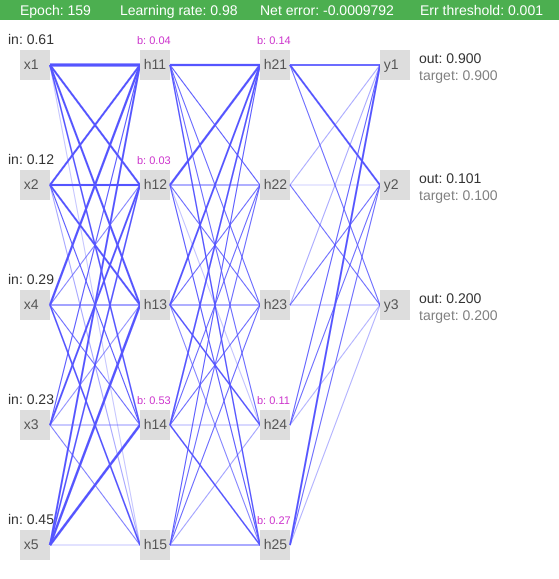
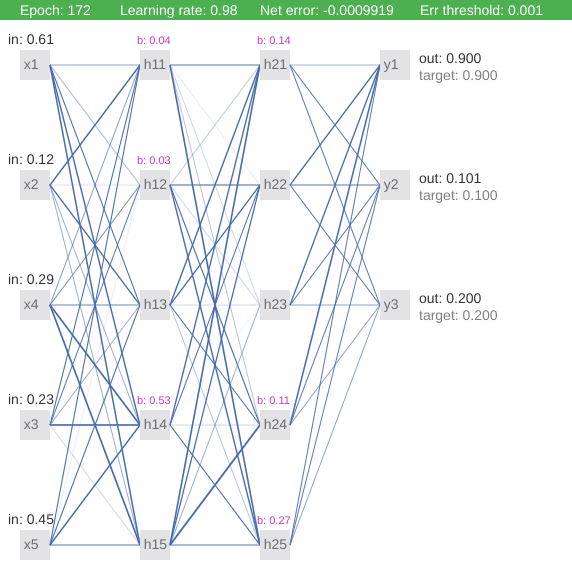
Colors updated

diff --git a/main.js b/main.js
@@ -243,7 +243,7 @@ function drawNet(perceptron) {
                         ctx.moveTo(posX, posY + neuronSize / 2);
                         ctx.lineTo(neuronPositions[neuron.links[k].id][0] + neuronSize, neuronPositions[neuron.links[k].id][1] + neuronSize / 2);
                         ctx.lineWidth = neuron.links[k].weight * 2;
-                        ctx.strokeStyle = '#5555ff';
+                        ctx.strokeStyle = '#496cab';
                         ctx.stroke();
                     } else {
                         rightLinksCount++;
@@ -251,10 +251,10 @@ function drawNet(perceptron) {
                 }
             }
 
-            ctx.fillStyle = "#ddd";
+            ctx.fillStyle = "#e3e2e5";
             ctx.fillRect(posX, posY, neuronSize, neuronSize);
 
-            ctx.fillStyle = "#555";
+            ctx.fillStyle = "#6c6c6c";
             ctx.fillText(neuron.id, neuronSize / 8 + posX, neuronSize / 1.6  + posY);
 
             if (rightLinksCount === 0 && neuron.cell.getTargetOutput() !== null) {
